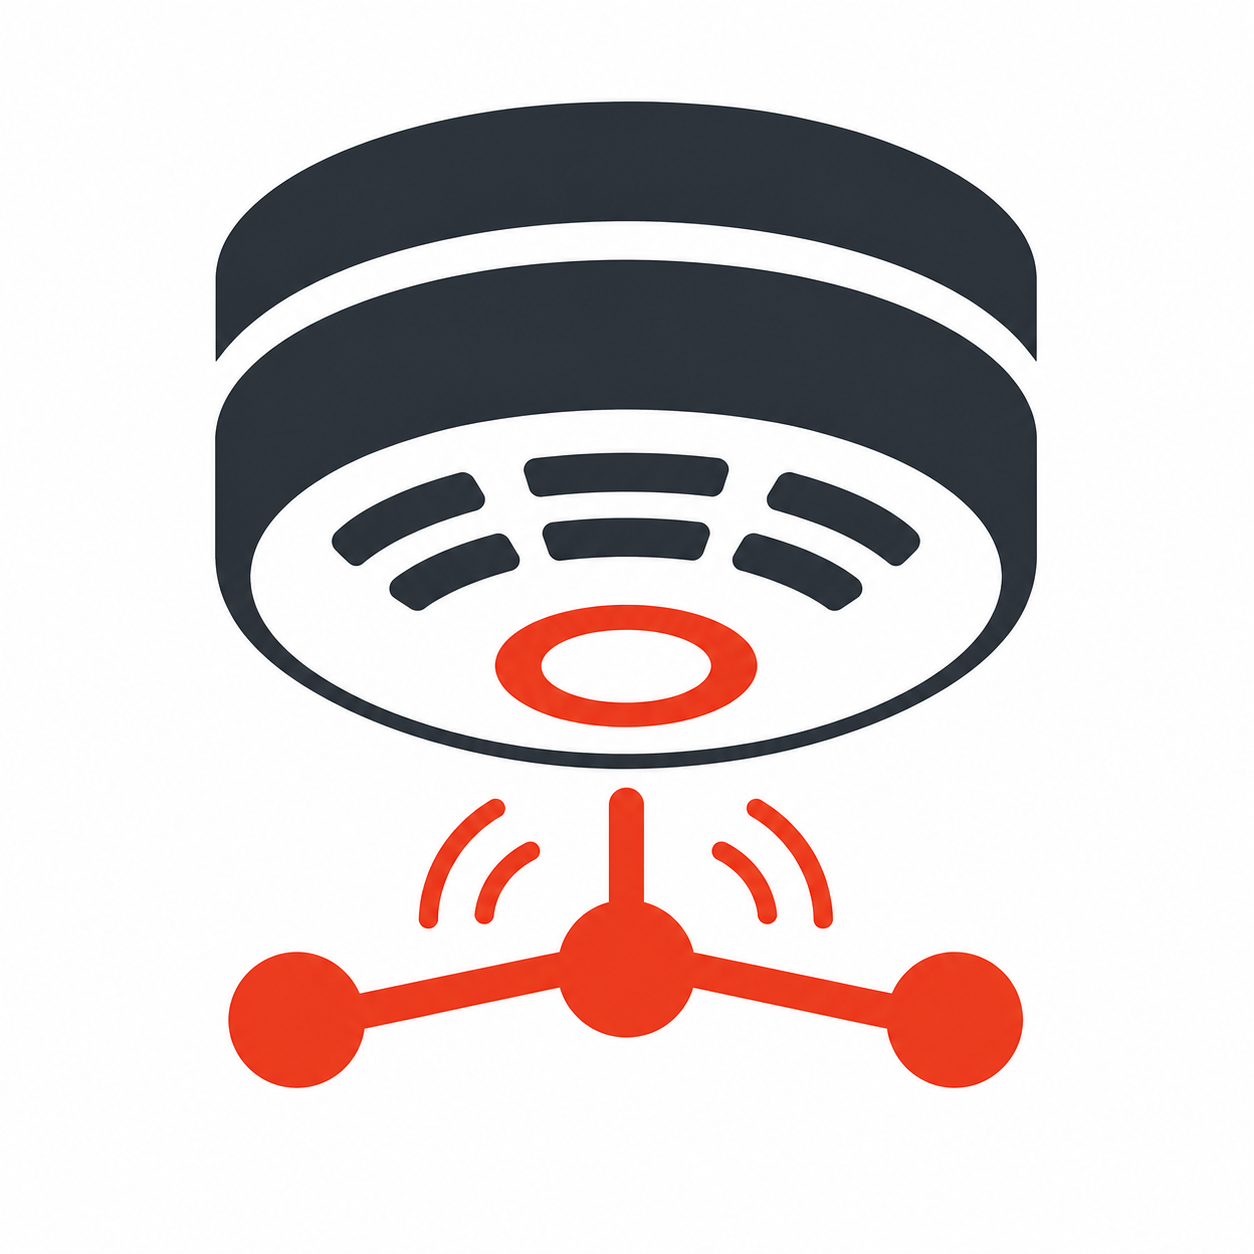
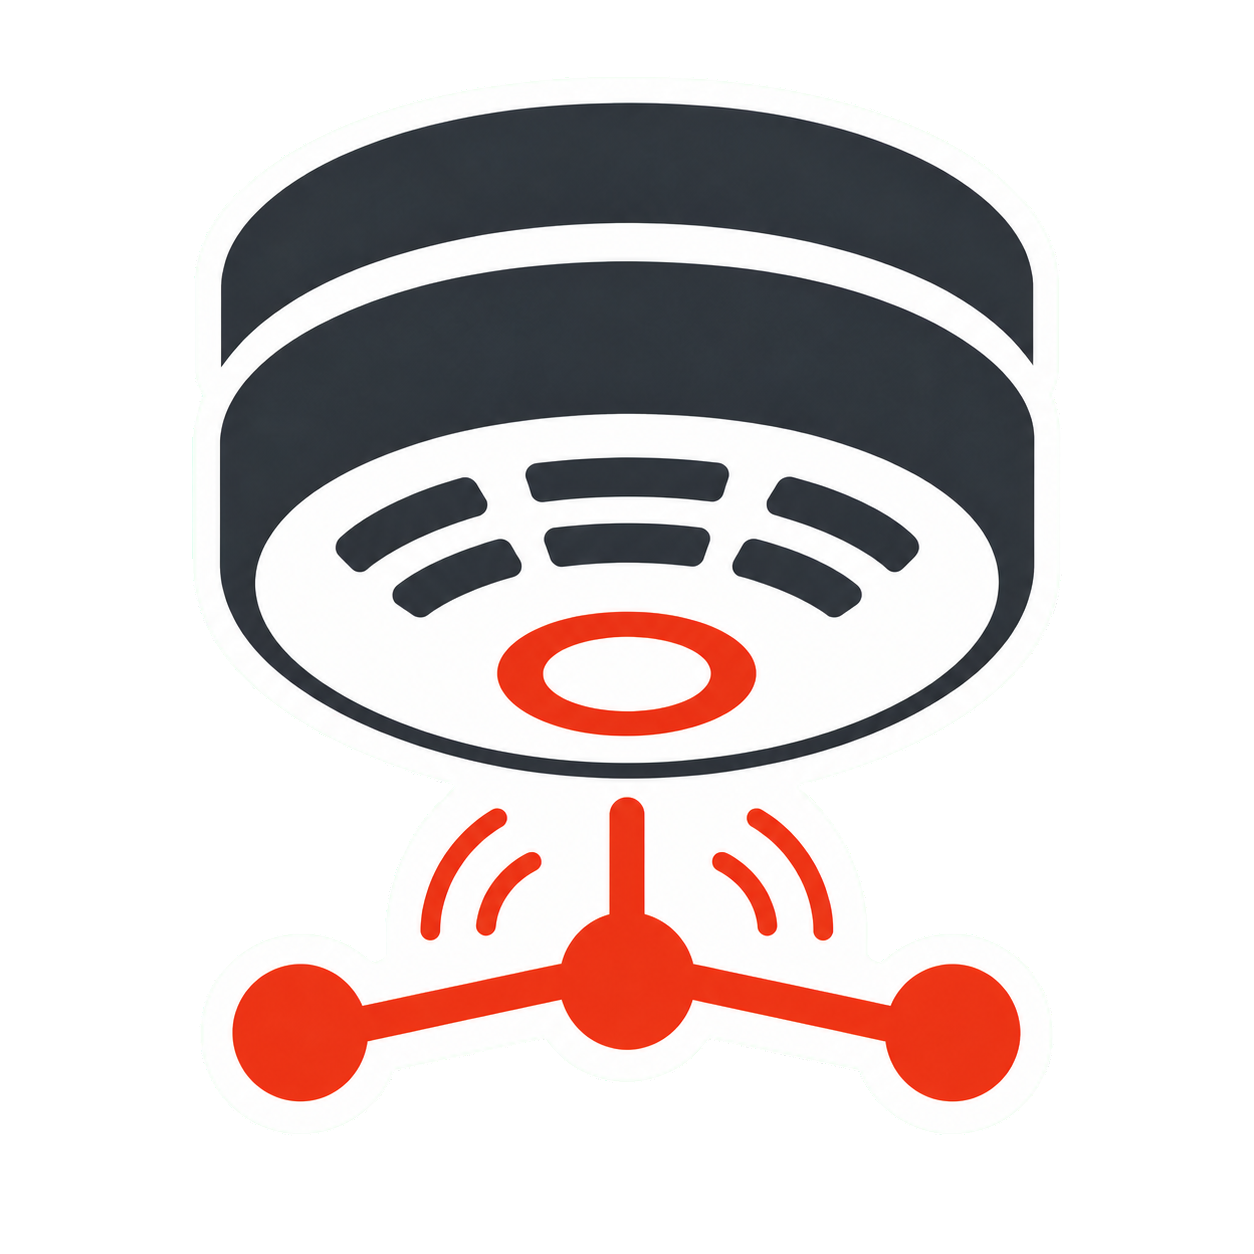
Release v0.1.0-beta.6

diff --git a/CHANGELOG.md b/CHANGELOG.md
@@ -1,0 +1,95 @@
+# Changelog
+
+All notable changes to FireAngel Pro Connected are documented in this file.
+
+The format is based on [Keep a Changelog](https://keepachangelog.com/en/1.1.0/),
+and the project uses [Semantic Versioning](https://semver.org/spec/v2.0.0.html).
+
+## [Unreleased]
+
+## [0.1.0-beta.6] - 2026-08-09
+
+### Added
+
+- Added this changelog and repository guidance to keep it current for future
+  user-visible changes and releases.
+
+### Changed
+
+- Updated the integration icon to use a transparent outer background with a
+  fitted white rim, improving its appearance alongside other Home Assistant
+  integration icons and on dark backgrounds.
+- Renamed detector battery entities from **Battery low** to **Battery**. The
+  entities retain their Home Assistant battery binary-sensor behavior and
+  existing unique IDs.
+
+## [0.1.0-beta.5] - 2026-08-09
+
+### Fixed
+
+- Made firmware field parsing case-insensitive, including detector identifiers,
+  so messages using keys such as `Device` are handled like their lowercase
+  equivalents.
+- Added coverage for mixed-case firmware messages.
+
+## [0.1.0-beta.4] - 2026-08-09
+
+### Added
+
+- Imported legacy entity names as initial detector device names during bulk
+  YAML migration.
+- Expanded config-flow and migration test coverage, including invalid and
+  duplicate input cases.
+
+### Changed
+
+- Preserved Home Assistant device-registry names once users customize them.
+- Refined ignored development and test artifacts.
+
+## [0.1.0-beta.3] - 2026-08-09
+
+### Changed
+
+- Updated the GitHub Actions used by continuous integration and release
+  workflows.
+- Removed an unsupported key from the integration manifest.
+
+## [0.1.0-beta.2] - 2026-08-09
+
+### Changed
+
+- Updated the development container configuration and editor integration for
+  the supported development environment.
+
+## [0.1.0-beta.1] - 2026-08-09
+
+### Added
+
+- Added the initial local-only Home Assistant integration for the C19HOP
+  WiSafe2-to-HomeAssistant USB serial bridge.
+- Added asynchronous serial connection handling, line-oriented protocol
+  parsing, reconnect behavior, and clean unloading.
+- Added automatic detector discovery and persistence, plus runtime entity and
+  device registration without requiring an integration reload.
+- Added alarm, battery, base-status, last-event, bridge-message, and connection
+  entities using Home Assistant device classes and device-registry hierarchy.
+- Added controls for alarm tests, silencing, checking pairing, and starting
+  pairing. Firmware emergency-simulation commands are intentionally excluded.
+- Added configuration for the serial path and baud rate, individual detector
+  enrollment by hexadecimal ID, manual detector-type selection, and bulk
+  migration from legacy YAML packages.
+- Added model-name mapping and automatic carbon-monoxide detection from events
+  and the known `7803` model code.
+- Added diagnostics with config-entry data redaction support.
+- Added English translations, documentation, a development container, tests,
+  lint configuration, continuous integration, and release automation.
+- Added HACS metadata, installation instructions, and the original integration
+  icon.
+
+[Unreleased]: https://github.com/NikNakk/fireangel-pro-connected-component/compare/v0.1.0-beta.6...HEAD
+[0.1.0-beta.6]: https://github.com/NikNakk/fireangel-pro-connected-component/compare/v0.1.0-beta.5...v0.1.0-beta.6
+[0.1.0-beta.5]: https://github.com/NikNakk/fireangel-pro-connected-component/compare/v0.1.0-beta.4...v0.1.0-beta.5
+[0.1.0-beta.4]: https://github.com/NikNakk/fireangel-pro-connected-component/compare/v0.1.0-beta.3...v0.1.0-beta.4
+[0.1.0-beta.3]: https://github.com/NikNakk/fireangel-pro-connected-component/compare/v0.1.0-beta.2...v0.1.0-beta.3
+[0.1.0-beta.2]: https://github.com/NikNakk/fireangel-pro-connected-component/compare/v0.1.0-beta.1...v0.1.0-beta.2
+[0.1.0-beta.1]: https://github.com/NikNakk/fireangel-pro-connected-component/releases/tag/v0.1.0-beta.1

diff --git a/AGENTS.md b/AGENTS.md
@@ -127,3 +127,15 @@ in CI.
 If behavior depends on upstream firmware details, inspect the current upstream
 source rather than guessing, and document any protocol inference in the change.
 
+## Changelog
+
+- Keep `CHANGELOG.md` updated for every user-visible change.
+- Add pending changes under `Unreleased`, using the Keep a Changelog categories
+  `Added`, `Changed`, `Deprecated`, `Removed`, `Fixed`, or `Security` as
+  appropriate.
+- When preparing a release, move the pending entries into a versioned section
+  with its release date and update the comparison links at the bottom of the
+  file.
+- Call out breaking changes, migration steps, and safety-relevant behavior
+  explicitly. Do not add routine formatting or test-only changes unless they
+  materially affect users or contributors.
